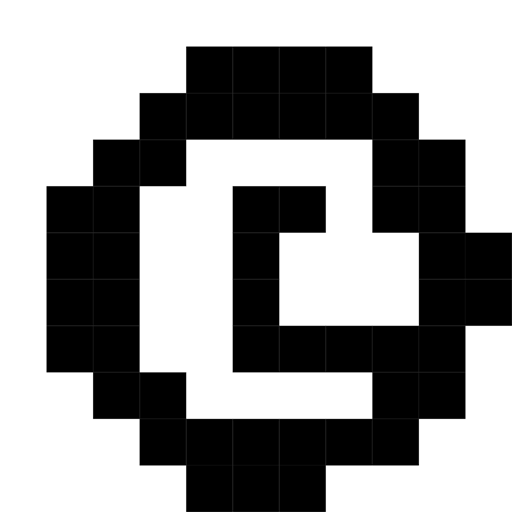
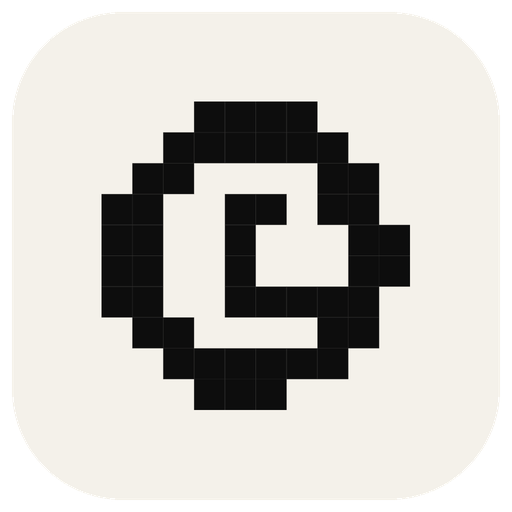
Prepare v0.8.46 release

diff --git a/docs/CHANGELOG.md b/docs/CHANGELOG.md
@@ -1,15 +1,20 @@
-# OddSnap v0.8.45
+# OddSnap v0.8.46
 
-## New
-- Settings search: type in the new "Find a setting" box in the sidebar to jump straight to any setting on any page, with the matching card highlighted.
-- The settings sidebar now shows the app logo and version, with a roomier Windows 11-style navigation rail and selection indicator.
+## Added
 
-## Improved
-- Larger settings window with bigger page titles and more comfortable spacing throughout.
-- The OCR translation loading shimmer is now visible in light mode.
-- The color palette is now single-sourced across the WPF windows and the capture chrome, so light/dark styling can no longer drift between surfaces.
+- Added **Show OddSnap UI in screenshots**. Disable it to exclude OddSnap windows, previews, notifications, and other OddSnap-owned UI from captures.
 
-## Under the hood
-- Added the project's first automated test suite (292 tests covering settings persistence and migrations, upload URL validation, localization fallback, filename templates, hotkey formatting, history utilities, and toolbar layout).
-- CI now builds the full solution and runs the test suite on every push and pull request, and releases are blocked if tests fail.
-- Website: added a web app manifest and icons, canonical/social metadata, structured data, a skip-to-content link, and image sizing for faster, steadier loading.
+## Fixed
+
+- Restricted automatic history retention to tracked OddSnap files so unrelated images are never recursively deleted ([#56](https://github.com/jasperdevs/odd-snap/issues/56)).
+- Added an advanced-color compatibility capture path to prevent overexposed HDR screenshots ([#62](https://github.com/jasperdevs/odd-snap/issues/62)).
+- Skipped image-preview toasts when desktop composition is unavailable instead of terminating OddSnap ([#64](https://github.com/jasperdevs/odd-snap/issues/64)).
+- Normalized Japanese and Chinese OCR spacing while preserving Korean spacing ([#66](https://github.com/jasperdevs/odd-snap/issues/66)).
+- Forced UTF-8 input for local translation so non-ASCII text is preserved ([#67](https://github.com/jasperdevs/odd-snap/issues/67)).
+- Installed PyTorch with the open-source local translation runtime ([#68](https://github.com/jasperdevs/odd-snap/issues/68)).
+- Reconstructed Arabic and Hebrew OCR lines from word geometry while preserving embedded Latin runs ([#69](https://github.com/jasperdevs/odd-snap/issues/69)).
+- Made toast fade and slide animations transparent, monitor-local, and reliable.
+- Preserved the aspect ratio of narrow image-only notification previews.
+- Restored History upload actions after refusal, failure, rate limiting, and successful uploads.
+- Reduced History resize stutter by reusing clipping geometry and debouncing viewport rebuilds.
+- Centered the OddSnap mark and added contrast-safe application, installer, website, and package icons.
